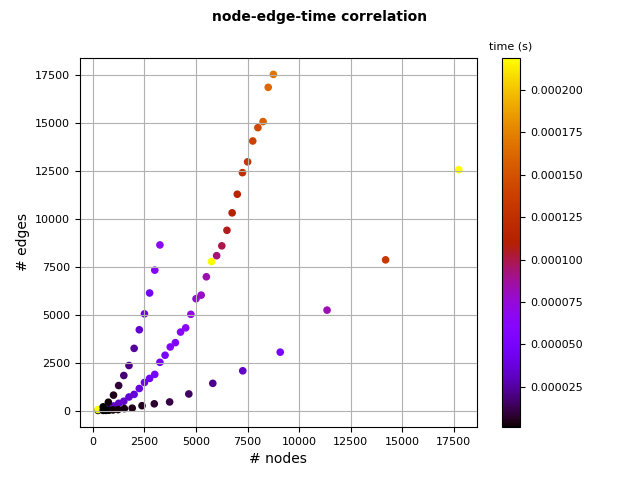
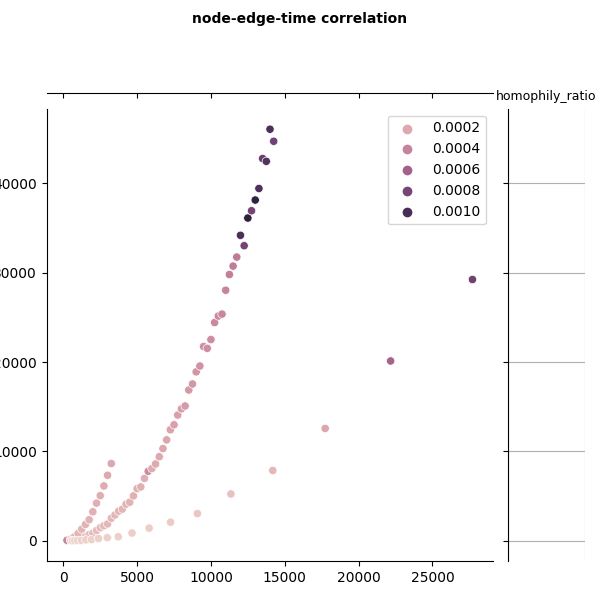
store value results too

diff --git a/experiments/analysis/plots/node-edge-time/node-edge-time.py b/experiments/analysis/plots/node-edge-time/node-edge-time.py
@@ -1,4 +1,5 @@
 import matplotlib.pyplot as plt
+import seaborn as sns
 import numpy as np
 import csv
 import pandas as pd
@@ -34,10 +35,17 @@ def generate_plot(tables, plot, settings):
     if settings['scale'] == 'log':
         plt.semilogy()
 
+    x = []
+    y = []
+    z = []
     for table in tables:
         nodes, edges, times = table
-        x, y, z = (nodes, edges, times)
-        plt.scatter(x,y,s=20,c=z,cmap='gnuplot')
+        x += nodes
+        y += edges
+        z += times
+    #plt.scatter(x,y,s=20,c=z,cmap='rainbow')
+    print(z)
+    sns.jointplot(x=x, y=y, hue=z, kind='reg')
 
     plt.xticks(fontsize=8)
     plt.yticks(fontsize=8)
@@ -46,15 +54,15 @@ def generate_plot(tables, plot, settings):
     plt.xlabel('# nodes')
     plt.ylabel('# edges')
     plt.suptitle('node-edge-time correlation', y=0.98, fontsize=10, fontweight='bold')
-    # title = 'ogbg-' + name + ' [' + str(len(x)) + ' graphs]'
-    # plt.title(title, fontsize=9)
+    title = plot['column']
+    plt.title(title, fontsize=9)
     # plt.legend(fontsize=8, loc='best', markerscale=2.0)
 
-    cbar = plt.colorbar()
+    # cbar = plt.colorbar()
     #t = 5*round((len(x)//10)/5)
     #cbar.set_ticks(MultipleLocator(t))
-    cbar.ax.tick_params(labelsize=8)
-    cbar.ax.set_title('time (s)', fontsize=8)
+    # cbar.ax.tick_params(labelsize=8)
+    # cbar.ax.set_title('time (s)', fontsize=8)
 
     plt.grid()
 
